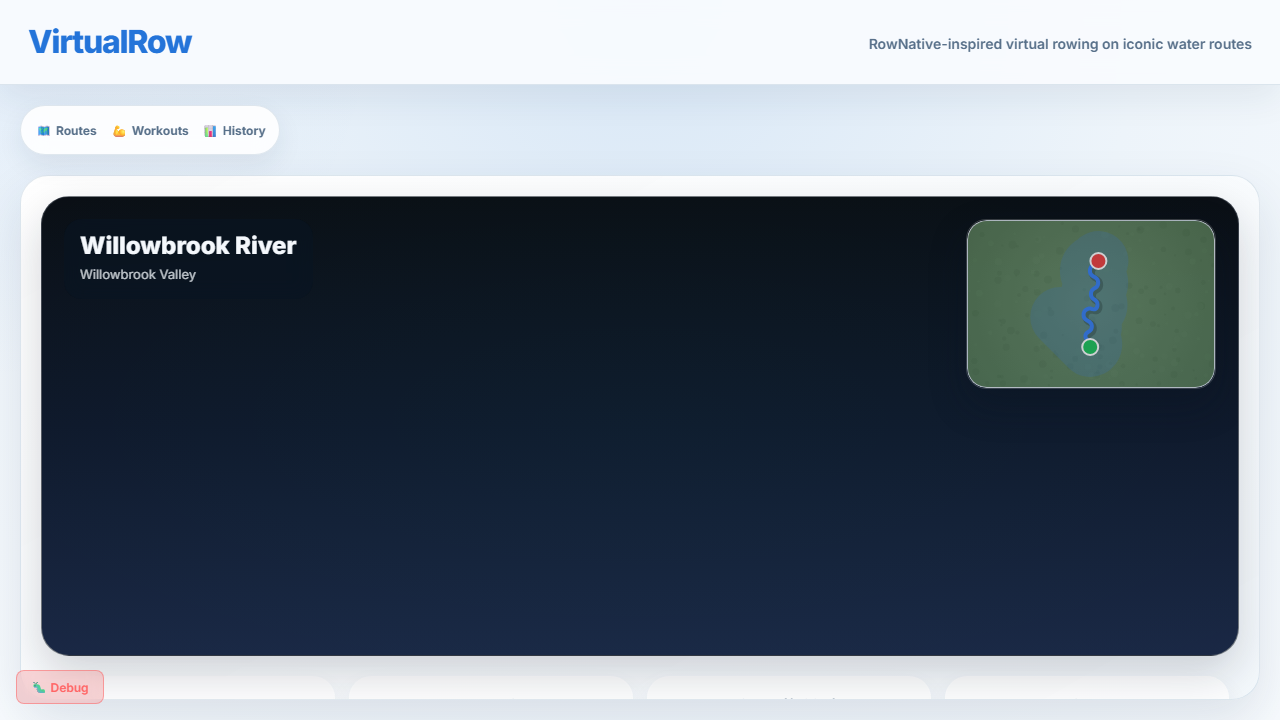
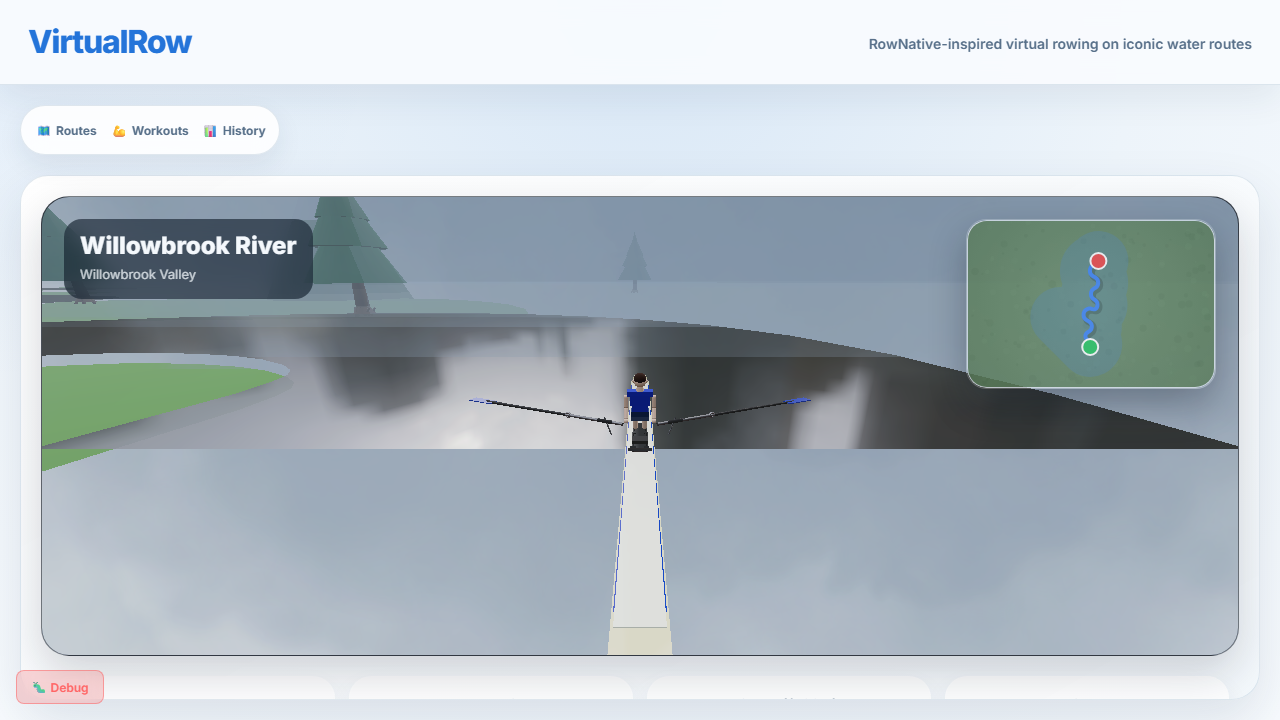
fix(docs): regenerate screenshots with 3D rower visible and correct aspect ratios
- Wait for Three.js WebGL canvas to initialise (__ROWER3D_GPU_BACKEND) before
  taking screenshots — fixes the black canvas issue
- Inject PM5 data 3 times with 600ms pauses so the animation loop positions the
  boat on the route before the screenshot is taken
- Wait for __ROWER3D_DISTANCE_M > 0 to confirm the boat is rendered
- Allow 1500ms settling time for the WebGL renderer after data injection
- Use fullPage: false for all docs screenshots (consistent 1280x720 viewport)
- Fix docs/index.html width/height attributes: 1600x1200 -> 1280x720 for all
  screenshot cards; hero image also set to 1280x720

diff --git a/playwright/tests/virtualrow.spec.ts b/playwright/tests/virtualrow.spec.ts
@@ -1001,8 +1001,8 @@ test.describe('docs screenshots', () => {
   });
 
   test('captures and publishes screenshots for documentation', async ({ page }) => {
-    // 1. Route selection screen
-    await page.screenshot({ path: path.join(docsDir, 'screenshot-route-selection.png'), fullPage: true });
+    // 1. Route selection screen — viewport only so the route list is prominently visible
+    await page.screenshot({ path: path.join(docsDir, 'screenshot-route-selection.png'), fullPage: false });
 
     // 2. Connect PM5 and HR
     await page.waitForSelector('button:has-text("Connect PM5")');
@@ -1045,47 +1045,54 @@ test.describe('docs screenshots', () => {
       { timeout: 5000 },
     );
 
-    // Inject realistic PM5 + HR data via mock characteristics (no sim server required)
-    await page.evaluate(() => {
-      const buf = new ArrayBuffer(20);
-      const dv = new DataView(buf);
-      dv.setUint16(0, Math.round(118 * 100), true); // pace (s/500m × 100)
-      dv.setUint32(2, 1500, true);                  // distance m
-      dv.setUint32(6, 180, true);                   // elapsedTime s
-      dv.setUint16(10, 195, true);                  // power W
-      dv.setUint8(13, 26);                          // cadence spm
-      dv.setUint8(14, 148);                         // heart rate bpm
-      const w = window as any;
-      if (w.__pm5CharGeneral) w.__pm5CharGeneral._dispatch(dv);
-      if (w.__pm5CharMux)     w.__pm5CharMux._dispatch(dv);
+    // Wait for React to render the activity view
+    await page.waitForSelector('.activity-view', { timeout: 10_000 });
 
-      // HR characteristic
-      const hrBuf = new ArrayBuffer(2);
-      const hrDv = new DataView(hrBuf);
-      hrDv.setUint8(0, 0x00);
-      hrDv.setUint8(1, 148);
-      if (w.__hrChar) w.__hrChar._dispatch(hrDv);
-    });
+    // Wait for Three.js WebGL renderer to initialise (fires in Canvas onCreated callback)
+    await page.waitForFunction(
+      () => !!(window as any).__ROWER3D_GPU_BACKEND,
+      { timeout: 15_000 },
+    );
 
-    // Wait for RAF-deferred React state update
-    await page.waitForTimeout(500);
+    // Inject PM5 + HR data three times with pauses so the animation loop runs multiple
+    // frames and the boat model has time to load and be positioned on the route.
+    for (let i = 1; i <= 3; i++) {
+      await page.evaluate((frame) => {
+        const buf = new ArrayBuffer(20);
+        const dv = new DataView(buf);
+        dv.setUint16(0, Math.round(118 * 100), true); // pace (s/500m × 100)
+        dv.setUint32(2, 500 * frame, true);            // distance m — advance each frame
+        dv.setUint32(6, 60 * frame, true);             // elapsedTime s
+        dv.setUint16(10, 195, true);                   // power W
+        dv.setUint8(13, 26);                           // cadence spm
+        dv.setUint8(14, 148);                          // heart rate bpm
+        const w = window as any;
+        if (w.__pm5CharGeneral) w.__pm5CharGeneral._dispatch(dv);
+        if (w.__pm5CharMux)     w.__pm5CharMux._dispatch(dv);
 
-    // 3. Activity screen (full page)
-    await page.screenshot({ path: path.join(docsDir, 'screenshot-activity.png'), fullPage: true });
-
-    // 4. 3D canvas close-up
-    try {
-      const container = page.locator('.rower3d-canvas-container');
-      if ((await container.count()) > 0) {
-        await container.screenshot({ path: path.join(docsDir, 'screenshot-rower-3d.png'), type: 'png' });
-      } else {
-        await page.screenshot({ path: path.join(docsDir, 'screenshot-rower-3d.png'), fullPage: false });
-      }
-    } catch {
-      try {
-        await page.screenshot({ path: path.join(docsDir, 'screenshot-rower-3d.png'), fullPage: false });
-      } catch { /* ignore */ }
+        const hrBuf = new ArrayBuffer(2);
+        const hrDv = new DataView(hrBuf);
+        hrDv.setUint8(0, 0x00);
+        hrDv.setUint8(1, 148);
+        if (w.__hrChar) w.__hrChar._dispatch(hrDv);
+      }, i);
+      await page.waitForTimeout(600);
     }
+
+    // Wait for the Rower3D animation loop to place the boat on the route
+    await page.waitForFunction(
+      () => (window as any).__ROWER3D_DISTANCE_M > 0,
+      { timeout: 5000 },
+    ).catch(() => { /* non-critical — screenshot taken regardless */ });
+
+    // Allow Two.js/Three.js additional frame time to render the scene
+    await page.waitForTimeout(1500);
+
+    // 3. Activity screen — viewport only so the 3D canvas is centre-stage
+    await page.screenshot({ path: path.join(docsDir, 'screenshot-activity.png'), fullPage: false });
+
+    // 4. 3D canvas close-up for hero image — full viewport matches sidebar-hidden look
+    await page.screenshot({ path: path.join(docsDir, 'screenshot-rower-3d.png'), fullPage: false });
 
     // 5. End the live session, inject past sessions for a populated history view
     await page.evaluate(() => {
@@ -1143,7 +1150,7 @@ test.describe('docs screenshots', () => {
 
     await page.waitForSelector('.history-item', { timeout: 5000 });
 
-    // 6. History screen
-    await page.screenshot({ path: path.join(docsDir, 'screenshot-history.png'), fullPage: true });
+    // 6. History screen — viewport only
+    await page.screenshot({ path: path.join(docsDir, 'screenshot-history.png'), fullPage: false });
   });
 });

diff --git a/docs/index.html b/docs/index.html
@@ -658,8 +658,8 @@
         <img
           src="screenshot-route-selection.png"
           alt="VirtualRow route selection screen — choose Willowbrook River or import a custom GPX route"
-          width="1600"
-          height="1200"
+          width="1280"
+          height="720"
           loading="lazy"
         />
         <div class="caption">
@@ -676,8 +676,8 @@
         <img
           src="screenshot-activity.png"
           alt="VirtualRow activity screen showing live metrics panel and 3D river view"
-          width="1600"
-          height="1200"
+          width="1280"
+          height="720"
           loading="lazy"
         />
         <div class="caption">
@@ -694,8 +694,8 @@
         <img
           src="screenshot-history.png"
           alt="VirtualRow workout history screen showing past sessions with pace and distance stats"
-          width="1600"
-          height="1200"
+          width="1280"
+          height="720"
           loading="lazy"
         />
         <div class="caption">